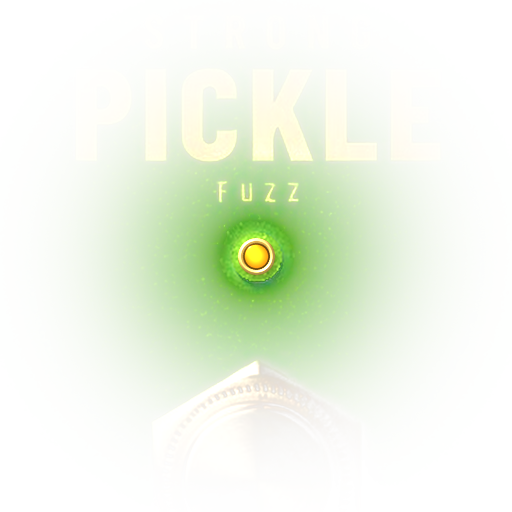
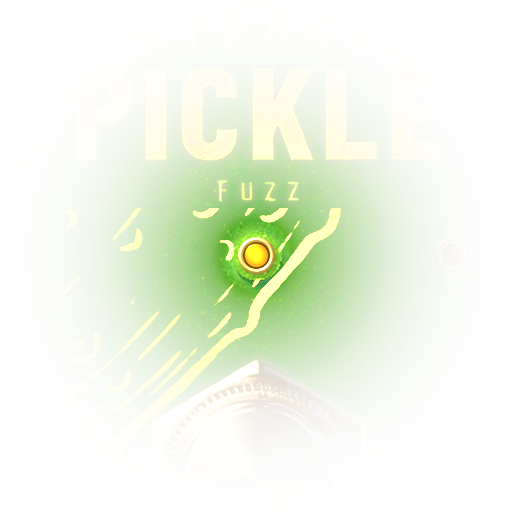
Apercu (non valide) : graduations nettes, ombres des inverseurs refaites, bague OCTAVE propre, halo de la LED d'octave, cornichon plus bas
Claude-Session: https://claude.ai/code/session_01M5BvnKD25x5sTgnxyi1aHz

diff --git a/tools/make_background.py b/tools/make_background.py
@@ -15,7 +15,7 @@ Usage : python3 tools/make_background.py
 """
 import os, json, math
 import numpy as np, cv2
-from PIL import Image
+from PIL import Image, ImageDraw
 
 HERE = os.path.dirname(os.path.abspath(__file__))
 ROOT = os.path.dirname(HERE)
@@ -160,25 +160,28 @@ shadow = np.zeros((H2, W2), np.float32); shadow[ya + 3:ya + 3 + ln_, xa + 2:xa +
 img *= (1 - 0.45 * cv2.GaussianBlur(shadow, (0, 0), 3)[..., None])
 img[ya:ya + ln_, xa:xa + ln_] = img[ya:ya + ln_, xa:xa + ln_] * (1 - lm[..., None]) + lrgb * lm[..., None]
 
-# calque d'eclairage par la LED jaune (la facade recoit la lumiere ; le grain s'allume, les creux restent sombres)
+# calque d'eclairage par une LED jaune (la facade recoit la lumiere ; le grain s'allume, les creux restent sombres).
+# v1.4.1 : calcule a la fin, sur le fond definitif (motif, graduations, ombres compris), pour les deux LED.
 GLOW = (LEDU[0] - 128.0, LEDU[1] - 128.0, 256.0, 256.0)
-gx0, gy0, gw, gh = GLOW
-sx, sy, sw, sh = int(gx0 * PX), int(gy0 * PX), int(gw * PX), int(gh * PX)
-regbg = img[sy:sy + sh, sx:sx + sw].copy()
-gv, gu = np.mgrid[0:sh, 0:sw].astype(np.float32)
-gu = (gu + 0.5) / PX + gx0; gv = (gv + 0.5) / PX + gy0
-d = np.hypot(gu - LEDU[0], gv - LEDU[1])
-hsrc = 8.0
-E = hsrc ** 3 / (d * d + hsrc * hsrc) ** 1.5
-E = 1.25 * E + 0.16 * np.exp(-(d / 60.0) ** 2)
-yel = np.array([1.55, 1.12, 0.22], np.float32)
-lit = regbg * (1 + E[..., None] * yel * 1.9) + (E[..., None] ** 2) * yel * 55
-add = np.clip(lit, 0, 255) - regbg
-a = np.clip(add.max(-1) / 60.0, 0, 1)
-a = np.maximum(a, np.clip(E * 0.9, 0, 1))
-srcg = np.where(a[..., None] > 1e-3, regbg + add / np.maximum(a[..., None], 1e-3), regbg)
-glow = np.dstack([np.clip(srcg, 0, 255), a[..., None] * 255]).astype(np.uint8)
-Image.fromarray(glow, 'RGBA').resize((512, 512), Image.LANCZOS).save(os.path.join(ROOT, 'glow_yellow.png'))
+def make_glow(ledu, path):
+    gx0, gy0, gw, gh = ledu[0] - 128.0, ledu[1] - 128.0, 256.0, 256.0
+    sx, sy, sw, sh = int(round(gx0 * PX)), int(round(gy0 * PX)), int(gw * PX), int(gh * PX)
+    regbg = img[sy:sy + sh, sx:sx + sw].copy()
+    gv, gu = np.mgrid[0:sh, 0:sw].astype(np.float32)
+    gu = (gu + 0.5) / PX + sx / PX; gv = (gv + 0.5) / PX + sy / PX
+    d = np.hypot(gu - ledu[0], gv - ledu[1])
+    hsrc = 8.0
+    E = hsrc ** 3 / (d * d + hsrc * hsrc) ** 1.5
+    E = 1.25 * E + 0.16 * np.exp(-(d / 60.0) ** 2)
+    yel = np.array([1.55, 1.12, 0.22], np.float32)
+    lit = regbg * (1 + E[..., None] * yel * 1.9) + (E[..., None] ** 2) * yel * 55
+    add = np.clip(lit, 0, 255) - regbg
+    a = np.clip(add.max(-1) / 60.0, 0, 1)
+    a = np.maximum(a, np.clip(E * 0.9, 0, 1))
+    srcg = np.where(a[..., None] > 1e-3, regbg + add / np.maximum(a[..., None], 1e-3), regbg)
+    glow = np.dstack([np.clip(srcg, 0, 255), a[..., None] * 255]).astype(np.uint8)
+    Image.fromarray(glow, 'RGBA').resize((512, 512), Image.LANCZOS).save(os.path.join(ROOT, path))
+    return (sx / PX, sy / PX, gw, gh)
 
 # ------------------------------------------------------------------ 6. leviers des inverseurs (rendu 3D, lumiere du visuel)
 # 3 images carrees : levier bas (comme le visuel), intermediaire (~55 ms pendant la bascule), haut.
@@ -229,10 +232,70 @@ fs = frames[0].shape[0]
 strip = np.concatenate(frames, axis=0)
 Image.fromarray(strip, 'RGBA').save(os.path.join(ROOT, 'toggle_strip.png'))
 
+# ------------------------------------------------------------------ 6a. graduations, ombres des inverseurs, bague OCTAVE (v1.4.1)
+# graduations des potards : 11 traits tous les 30 degres (7 h -> 5 h), de 1,11 a 1,235 fois le rayon du moletage
+# (mesures sur le visuel), redessines nets et plus visibles, encre creme, petite ombre portee.
+TICK_IN, TICK_OUT = 1.11, 1.235
+tick_ink = np.array([210, 212, 182], np.float32)
+def _ticks(cx, cy, R):
+    SSt = 4; n = int(R * 2.9); x0, y0 = int(cx - n / 2), int(cy - n / 2)
+    cvs = Image.new('L', (n * SSt, n * SSt), 0); dr = ImageDraw.Draw(cvs)
+    w_ = max(1, int(round(0.036 * R * SSt)))
+    for i in range(11):
+        an = math.radians(120 + 30 * i)
+        p0 = ((cx - x0 + TICK_IN * R * math.cos(an)) * SSt, (cy - y0 + TICK_IN * R * math.sin(an)) * SSt)
+        p1 = ((cx - x0 + TICK_OUT * R * math.cos(an)) * SSt, (cy - y0 + TICK_OUT * R * math.sin(an)) * SSt)
+        dr.line([p0, p1], fill=255, width=w_)
+        for pp in (p0, p1): dr.ellipse([pp[0] - w_ / 2, pp[1] - w_ / 2, pp[0] + w_ / 2, pp[1] + w_ / 2], fill=255)
+    m = np.asarray(cvs.resize((n, n), Image.LANCZOS)).astype(np.float32) / 255.0
+    reg = img[y0:y0 + n, x0:x0 + n]
+    sh = cv2.GaussianBlur(np.roll(np.roll(m, 1, 0), 1, 1), (0, 0), 0.8)
+    reg *= (1 - 0.35 * sh[..., None])
+    grain = reg - cv2.GaussianBlur(reg, (0, 0), 2.0)
+    reg[:] = reg * (1 - 0.93 * m[..., None]) + (tick_ink + 0.25 * grain) * (0.93 * m[..., None])
+for cx, cy, R in KNOBS: _ticks(U(cx) * PX, U(cy) * PX, U(R) * PX)
+
+# inverseurs : le halo noir granuleux du visuel autour des bagues est remplace par la peinture (grain pris un peu plus
+# loin sur le meme rayon) ; une ombre portee douce est posee plus loin (apres le motif). Bague OCTAVE = bague SCOOP propre.
+OCT_V = (TOGGLES[1][0], LED[1])                    # x de SCOOP, a la hauteur de la LED
+OCTU = (U(OCT_V[0]), U(OCT_V[1]))
+RR = U(TOG_RING) * PX + 1.0                          # rayon exterieur de la bague chromee (px du fond)
+TOGS_PX = [(U(cx) * PX, U(cy) * PX) for cx, cy in TOGGLES]
+def _clean_toggle(cx, cy):
+    n = 110; x0, y0 = int(round(cx)) - n, int(round(cy)) - n
+    reg = img[y0:y0 + 2 * n, x0:x0 + 2 * n]
+    yy_, xx_ = np.mgrid[0:2 * n, 0:2 * n].astype(np.float32)
+    dx, dy = xx_ + x0 + 0.5 - cx, yy_ + y0 + 0.5 - cy
+    rr_ = np.hypot(dx, dy)
+    zone = (rr_ >= RR - 0.5) & (rr_ < RR + 34)
+    low = cv2.GaussianBlur(reg, (0, 0), 5.0)
+    low8 = np.clip(low, 0, 255).astype(np.uint8)
+    hole_ = (rr_ < RR + 38).astype(np.uint8)                                   # rempli depuis la peinture exterieure seulement
+    lowf = cv2.inpaint(low8, hole_, 14, cv2.INPAINT_TELEA).astype(np.float32)
+    hp = reg - cv2.GaussianBlur(reg, (0, 0), 2.0)
+    k_ = (rr_ + 40.0) / np.maximum(rr_, 1e-3)                               # meme angle, 40 px plus loin
+    gx_ = np.clip(cx + dx * k_ - x0 - 0.5, 0, 2 * n - 1).astype(np.float32); gy_ = np.clip(cy + dy * k_ - y0 - 0.5, 0, 2 * n - 1).astype(np.float32)
+    hps = cv2.remap(hp, gx_, gy_, cv2.INTER_LINEAR)
+    fill = lowf + hps
+    w_ = np.clip((RR + 34 - rr_) / 8.0, 0, 1) * (rr_ >= RR - 0.5)
+    reg[:] = reg * (1 - w_[..., None]) + fill * w_[..., None]
+for cx, cy in TOGS_PX: _clean_toggle(cx, cy)
+def _copy_ring(sx_, sy_, tx_, ty_):
+    n = int(RR) + 4
+    ys_, xs_ = np.mgrid[-n:n, -n:n].astype(np.float32)
+    rr_ = np.hypot(xs_ + 0.5, ys_ + 0.5)
+    mk_ = np.clip((RR + 0.5 - rr_) / 2.0, 0, 1)
+    src_ = img[int(round(sy_)) - n:int(round(sy_)) + n, int(round(sx_)) - n:int(round(sx_)) + n].copy()
+    dst_ = img[int(round(ty_)) - n:int(round(ty_)) + n, int(round(tx_)) - n:int(round(tx_)) + n]
+    dst_[:] = dst_ * (1 - mk_[..., None]) + src_ * mk_[..., None]
+OCT_PX = (U(OCT_V[0]) * PX, U(OCT_V[1]) * PX)
+_copy_ring(TOGS_PX[1][0], TOGS_PX[1][1], OCT_PX[0], OCT_PX[1])
+OCTLEDU = ((OCT_PX[0] - 88.0) / PX, OCT_PX[1] / PX)    # LED d'octave, a gauche de l'inverseur
+
 # ------------------------------------------------------------------ 6b. motif du cornichon sur la coque (v1.4, design fourni)
 # design/source/strong_pickle_motif_seul.png = le dessin seul (trait creme sur fond gris), fourni par Studio Wiga.
 # Il est recale exactement sur le visuel de reference (design/source/strong_pickle_visuel_motif.jpg : matrice affine
-# mesuree par correlation ECC), puis (v1.4.1) reduit de 12 % autour de son coin bas gauche et descendu de 12 unites.
+# mesuree par correlation ECC), puis (v1.4.1) reduit de 12 % autour de son coin bas gauche et descendu de 35 unites (~3 mm).
 # Le trait est agrandi, son contour rendu net, puis peint a l'encre creme avec le grain de la peinture. Il passe
 # derriere les potards, inverseurs, LED, footswitch et le mot PICKLE, ne touche pas les etiquettes, et se voit assombri
 # a travers l'ecran et la barre de presets (cadres semi-transparents, comme sur le visuel).
@@ -247,7 +310,7 @@ if os.path.exists(MOTIF):
     aP = np.clip(aP * 1.35, 0, 1)                                              # traits fins de l'interieur gardes
     Hb, Wb = img.shape[:2]
     al = cv2.warpAffine(aP, D2R, (Wb, Hb), flags=cv2.INTER_CUBIC)
-    MOTIF_SCALE, MOTIF_DY = float(os.environ.get('MOTIF_SCALE', 0.88)), float(os.environ.get('MOTIF_DY', 12.0)) * PX
+    MOTIF_SCALE, MOTIF_DY = float(os.environ.get('MOTIF_SCALE', 0.88)), float(os.environ.get('MOTIF_DY', 35.0)) * PX
     ys_, xs_ = np.where(al > 0.3)
     mcx, mcy = float(np.percentile(xs_, 0.5)), float(np.percentile(ys_, 99.5))
     Tm = np.array([[MOTIF_SCALE, 0, mcx - MOTIF_SCALE * mcx], [0, MOTIF_SCALE, mcy - MOTIF_SCALE * mcy + MOTIF_DY]], np.float64)
@@ -260,8 +323,9 @@ if os.path.exists(MOTIF):
         global keep
         keep *= np.clip((np.hypot(xxb - cx, yyb - cy) - r) / soft, 0, 1)
     for (cx, cy, R) in KNOBS: _hole(U(cx) * PX, U(cy) * PX, U(R) * PX * 1.02, 3.0)
-    for (cx, cy) in TOGGLES: _hole(U(cx) * PX, U(cy) * PX, 44, 3.0)
+    for (cx, cy) in TOGS_PX + [OCT_PX]: _hole(cx, cy, RR - 1.0, 2.0)          # le trait passe sous la bague
     _hole(U(LED[0]) * PX, U(LED[1]) * PX, 22, 3.0)
+    _hole(OCTLEDU[0] * PX, OCTLEDU[1] * PX, 22, 3.0)
     _hole(U(FOOT[0]) * PX, U(FOOT[1]) * PX, U(FOOT_R) * PX * 1.18, 3.0)
     for (bx_, by_, bw_, bh_) in (STATUS_BOX, PRESET_BOX):                     # bord des cadres : pas de trait dessus
         x0_, y0_, x1_, y1_ = U(bx_) * PX - 8, U(by_) * PX - 8, U(bx_ + bw_) * PX + 8, U(by_ + bh_) * PX + 8
@@ -270,6 +334,15 @@ if os.path.exists(MOTIF):
     # le mot PICKLE (il s'allume) : le trait passe derriere, jamais entre les lettres
     _bx, _by, _bw, _bh = 340.0 - 8, 706.0 - 4, 236.0 + 16, 64.0 + 8
     keep *= 1 - ((xxb > U(_bx) * PX) & (xxb < U(_bx + _bw) * PX) & (yyb > U(_by) * PX) & (yyb < U(_by + _bh) * PX)).astype(np.float32)
+    # STRONG et FUZZ : le trait passe derriere les mots (pas entre les lettres)
+    for (wy0, wy1) in ((676.0, 708.0), (764.0, 792.0)):
+        y0w, y1w = int(U(wy0) * PX), int(U(wy1) * PX); x0w, x1w = int(U(320) * PX), int(U(600) * PX)
+        crw = ((img[y0w:y1w, x0w:x1w, 0] > 105) & ((img[y0w:y1w, x0w:x1w, 1] - img[y0w:y1w, x0w:x1w, 0]) < 45)).astype(np.uint8)
+        crw = cv2.morphologyEx(crw, cv2.MORPH_OPEN, np.ones((2, 2), np.uint8))
+        ysw, xsw = np.where(crw > 0)
+        if len(xsw):
+            bx0, bx1, by0, by1 = x0w + xsw.min() - 8, x0w + xsw.max() + 8, y0w + ysw.min() - 6, y0w + ysw.max() + 6
+            keep *= 1 - ((xxb > bx0) & (xxb < bx1) & (yyb > by0) & (yyb < by1)).astype(np.float32)
     # marge autour des lettres creme deja peintes (etiquettes, STRONG / PICKLE / FUZZ) : le trait ne les touche pas
     _cr = ((img[..., 0] > 105) & ((img[..., 1] - img[..., 0]) < 45) & ((img[..., 0] - img[..., 2]) > 8)).astype(np.uint8)
     _cr = cv2.morphologyEx(_cr, cv2.MORPH_OPEN, np.ones((2, 2), np.uint8))
@@ -289,6 +362,19 @@ if os.path.exists(MOTIF):
     op = 0.88 * (1 - boxB) + 0.30 * boxB                                     # dans les cadres semi-transparents : trait assombri
     img = img * (1 - op * al[..., None]) + ink_ * (op * al[..., None])
     print('motif : %d px de trait' % int((al > 0.5).sum()))
+
+# ombres portees des trois inverseurs (lumiere en haut a gauche) : douce et decalee + ombre de contact serree
+Hb, Wb = img.shape[:2]
+for cx, cy in TOGS_PX + [OCT_PX]:
+    n = 120; x0, y0 = int(round(cx)) - n, int(round(cy)) - n
+    yy_, xx_ = np.mgrid[0:2 * n, 0:2 * n].astype(np.float32)
+    rr0 = np.hypot(xx_ + x0 + 0.5 - cx, yy_ + y0 + 0.5 - cy)
+    disc = (rr0 < RR).astype(np.float32)
+    soft = cv2.GaussianBlur(np.roll(np.roll(disc, 7, 0), 4, 1), (0, 0), 7.0)
+    contact = cv2.GaussianBlur(disc, (0, 0), 2.2)
+    shd = np.clip(0.50 * soft + 0.35 * contact, 0, 0.75) * np.clip((rr0 - RR + 1.0) / 1.5, 0, 1)
+    reg = img[y0:y0 + 2 * n, x0:x0 + 2 * n]
+    reg *= (1 - shd[..., None])
 
 # ------------------------------------------------------------------ 7. « PICKLE » qui s'allume en vert quand l'effet est actif
 # Les lettres creme du visuel deviennent des lettres lumineuses vertes (coeur clair, bord sature),
@@ -404,22 +490,7 @@ img[JY0:JY1] = out
 import sys as _sys
 _sys.path.insert(0, HERE)
 from label_font import render as _render_label
-OCT_V = (TOGGLES[1][0], LED[1])                    # v1.4.1 : x de SCOOP, a la hauteur de la LED
-sx, sy = U(TOGGLES[1][0]) * PX, U(TOGGLES[1][1]) * PX
-tx, ty = U(OCT_V[0]) * PX, U(OCT_V[1]) * PX
-R0, R1, RP = 44.0, 57.0, 80
-def _patch(cx, cy):
-    x0, y0 = int(round(cx)) - RP, int(round(cy)) - RP
-    return x0, y0, img[y0:y0 + 2 * RP, x0:x0 + 2 * RP]
-yy9, xx9 = np.mgrid[-RP:RP, -RP:RP].astype(np.float32)
-rr9 = np.hypot(xx9 + 0.5, yy9 + 0.5)
-mk9 = np.clip((R1 - rr9) / (R1 - R0), 0, 1)
-mk9 = mk9 * mk9 * (3 - 2 * mk9)
-ann = (rr9 > 62) & (rr9 < 76)
-_, _, ps = _patch(sx, sy)
-x0t, y0t, pt = _patch(tx, ty)
-corr = np.median(pt[ann], axis=0) - np.median(ps[ann], axis=0)      # teinte locale de la peinture
-pt[:] = pt * (1 - mk9[..., None]) + (ps + corr) * mk9[..., None]
+tx, ty = OCT_PX
 # etiquettes : OCTAVE sous l'inverseur (comme CRUNCH / SCOOP), FAT au-dessus et BRIGHT en dessous du levier
 # (positions de l'inverseur Fat / Bright de l'Ultimate Octave ; milieu = sans octave)
 inkc = np.array([160, 181, 136], np.float32)
@@ -437,16 +508,16 @@ _lw = _render_label('OCTAVE', 'BarlowCondensed-Bold.ttf', 24.5, 24.5 * 0.13).sha
 print('etiquettes', _label('OCTAVE', tx + 62 + _lw / 2.0, ty, 24.5), _label('FAT', tx, ty - 70, 18.0), _label('BRIGHT', tx, ty + 70, 18.0))
 # LED d'octave (jaune, eteinte dans le fond ; le plugin l'allume quand l'octave est en service), a gauche du levier
 OCT_LED_R = LED_R
-OCTLEDU = ((tx - 88.0) / PX, ty / PX)
 orgb, om = render_led(OCT_LED_R); on_ = orgb.shape[0]
 oxa, oya = int(round(OCTLEDU[0] * PX - on_ / 2)), int(round(OCTLEDU[1] * PX - on_ / 2))
 osh = np.zeros(img.shape[:2], np.float32); osh[oya + 2:oya + 2 + on_, oxa + 2:oxa + 2 + on_] = om
 img *= (1 - 0.45 * cv2.GaussianBlur(osh, (0, 0), 2.5)[..., None])
 img[oya:oya + on_, oxa:oxa + on_] = img[oya:oya + on_, oxa:oxa + on_] * (1 - om[..., None]) + orgb * om[..., None]
-OCTU = (U(OCT_V[0]), U(OCT_V[1]))
 print('octave : inverseur', OCTU)
 
 # ------------------------------------------------------------------ sorties
+GLOW = make_glow(LEDU, 'glow_yellow.png')
+GLOW2 = make_glow(OCTLEDU, 'glow_yellow_oct.png')          # v1.4.1 : lumiere de la LED d'octave sur la facade
 Image.fromarray(np.clip(img, 0, 255).astype(np.uint8)).save(os.path.join(ROOT, 'background.jpg'), quality=94, subsampling=0)
 
 P = lambda p: '{ %.2ff, %.2ff }' % tuple(p)
@@ -471,6 +542,7 @@ namespace layout
     const juce::Point<float> ledPos {P(LEDU)}; const float ledR = {LED_R:.2f}f;
     const juce::Point<float> footPos {P((U(FOOT[0]), U(FOOT[1])))}; const float footR = {U(FOOT_R):.2f}f;
     const juce::Rectangle<float> glowRect {Rc(GLOW)};
+    const juce::Rectangle<float> octGlowRect {Rc(GLOW2)};   // lumiere de la LED d'octave
     const juce::Rectangle<float> pickleRect {Rc(PKU)};    // calque « PICKLE » allume (vert)
     const juce::Rectangle<float> statusRect {Rc(st)};
     const juce::Rectangle<float> presetRect {Rc(pr)};

diff --git a/PluginEditor.cpp b/PluginEditor.cpp
@@ -18,6 +18,7 @@ namespace
     const float octLedR = layout::octLedR;
     const Colour octCore (0xfffff8d8), octMid (0xffffc21a), octDeep (0xff8a5600);   // meme jaune que la LED principale
     const Rectangle<float> glowRect = layout::glowRect;
+    const Rectangle<float> octGlowRect = layout::octGlowRect;   // lumiere de la LED d'octave sur la facade
     const Rectangle<float> pickleRect = layout::pickleRect;    // « PICKLE » s'allume en vert avec l'effet
     const Point<float> footPos = layout::footPos;
     const float footR = layout::footR;
@@ -197,6 +198,7 @@ PickleAudioProcessorEditor::PickleAudioProcessorEditor (PickleAudioProcessor& p)
 {
     background = ImageCache::getFromMemory (BinaryData::background_jpg, BinaryData::background_jpgSize);
     glowYellow = ImageCache::getFromMemory (BinaryData::glow_yellow_png, BinaryData::glow_yellow_pngSize);
+    glowOct    = ImageCache::getFromMemory (BinaryData::glow_yellow_oct_png, BinaryData::glow_yellow_oct_pngSize);
     pickleGlow = ImageCache::getFromMemory (BinaryData::pickle_glow_png, BinaryData::pickle_glow_pngSize);
     // v1.2.3 : fond « PICKLE allume » = le fond lui-meme avec les lettres vertes posees au pixel pres (fond a 2 px par unite).
     // Les deux fonds sont mis a l'echelle de la meme facon et dessines au meme endroit : aucun decalage possible,
@@ -323,6 +325,7 @@ void PickleAudioProcessorEditor::rebuildCaches (float sc)
     const float s = (float) h / (float) baseH;
     const int gpx = roundToInt (glowRect.getWidth() * s * sc);
     glowYellowS = (gpx >= glowYellow.getWidth()) ? glowYellow : glowYellow.rescaled (gpx, gpx, Graphics::highResamplingQuality);
+    glowOctS = ! glowOct.isValid() ? Image() : ((gpx >= glowOct.getWidth()) ? glowOct : glowOct.rescaled (gpx, gpx, Graphics::highResamplingQuality));
     const int pkw = roundToInt (pickleRect.getWidth() * s * sc), pkh = roundToInt (pickleRect.getHeight() * s * sc);
     bgLitScaled = ! backgroundLit.isValid() ? Image() : ((pw >= backgroundLit.getWidth()) ? backgroundLit : backgroundLit.rescaled (pw, ph, Graphics::highResamplingQuality));
     ignoreUnused (pkw, pkh);
@@ -489,8 +492,7 @@ void PickleAudioProcessorEditor::timerCallback()
     if (std::abs (octLedLevel - drawnOctLed) > 0.004f)
     {
         drawnOctLed = octLedLevel;
-        const float hr = octLedR * 4.2f;
-        askRepaint (scaled ({ octLedPos.x - hr, octLedPos.y - hr, hr * 2.0f, hr * 2.0f }).expanded (2));
+        askRepaint (scaled (octGlowRect));
     }
 
     const auto l1 = (learnLineUntil > 0.0 && now < learnLineUntil + 800.0 ? learnLine : buildStatusLine()), pl = buildPresetLine();
@@ -543,12 +545,21 @@ void PickleAudioProcessorEditor::drawLed (Graphics& g)
     g.fillEllipse (c.x - r * 0.62f, c.y - r * 0.70f, r * 0.64f, r * 0.52f);
 }
 
+void PickleAudioProcessorEditor::drawOctGlow (Graphics& g)
+{
+    // la facade recoit la lumiere de la LED d'octave (meme calque precalcule que la LED principale)
+    if (octLedLevel <= 0.003f || ! glowOctS.isValid()) return;
+    g.setOpacity (octLedLevel);
+    g.drawImage (glowOctS, octGlowRect);
+    g.setOpacity (1.0f);
+}
+
 void PickleAudioProcessorEditor::drawOctLed (Graphics& g)
 {
     const float level = octLedLevel;
     if (level <= 0.003f) return;
     const auto c = octLedPos; const float r = octLedR;
-    ColourGradient halo (octMid.withAlpha (0.26f * level), c.x, c.y, octMid.withAlpha (0.0f), c.x + r * 4.0f, c.y, true);
+    ColourGradient halo (octMid.withAlpha (0.22f * level), c.x, c.y, octMid.withAlpha (0.0f), c.x + r * 4.0f, c.y, true);
     halo.addColour (0.35, octMid.withAlpha (0.10f * level));
     g.setGradientFill (halo);
     g.fillEllipse (c.x - r * 4.0f, c.y - r * 4.0f, r * 8.0f, r * 8.0f);
@@ -624,6 +635,7 @@ void PickleAudioProcessorEditor::paint (Graphics& g)
 
     const float s = (float) getHeight() / (float) baseH;
     g.addTransform (AffineTransform::scale (s));
+    drawOctGlow (g);
     drawLed (g);
     drawOctLed (g);
     drawStatus (g);

diff --git a/Layout.h b/Layout.h
@@ -10,7 +10,8 @@ namespace layout
     const float togHalf = 26.00f;
     const juce::Point<float> ledPos { 379.58f, 685.83f }; const float ledR = 6.60f;
     const juce::Point<float> footPos { 376.67f, 796.67f }; const float footR = 45.00f;
-    const juce::Rectangle<float> glowRect { 251.58f, 557.83f, 256.00f, 256.00f };
+    const juce::Rectangle<float> glowRect { 251.50f, 558.00f, 256.00f, 256.00f };
+    const juce::Rectangle<float> octGlowRect { 349.50f, 558.00f, 256.00f, 256.00f };   // lumiere de la LED d'octave
     const juce::Rectangle<float> pickleRect { 261.50f, 566.50f, 240.00f, 96.50f };    // calque « PICKLE » allume (vert)
     const juce::Rectangle<float> statusRect { 195.00f, 454.17f, 371.67f, 47.50f };
     const juce::Rectangle<float> presetRect { 185.00f, 510.00f, 390.83f, 32.50f };

diff --git a/PluginEditor.h b/PluginEditor.h
@@ -112,6 +112,7 @@ private:
     juce::String buildPresetLine() const;
     void drawLed (juce::Graphics&);
     void drawOctLed (juce::Graphics&);
+    void drawOctGlow (juce::Graphics&);
     void drawStatus (juce::Graphics&);
     void drawPresetBar (juce::Graphics&);
 
@@ -119,7 +120,7 @@ private:
     PickleKnobLookAndFeel lnf;
     RightClickForwarder rightClickFwd;
 
-    juce::Image background, bgScaled, glowYellow, glowYellowS, pickleGlow, pickleGlowS, backgroundLit, bgLitScaled;
+    juce::Image background, bgScaled, glowYellow, glowYellowS, glowOct, glowOctS, pickleGlow, pickleGlowS, backgroundLit, bgLitScaled;
     int cacheW = 0, cacheH = 0;
     float cacheScale = 0.0f;
     int resizeSettle = 0;
